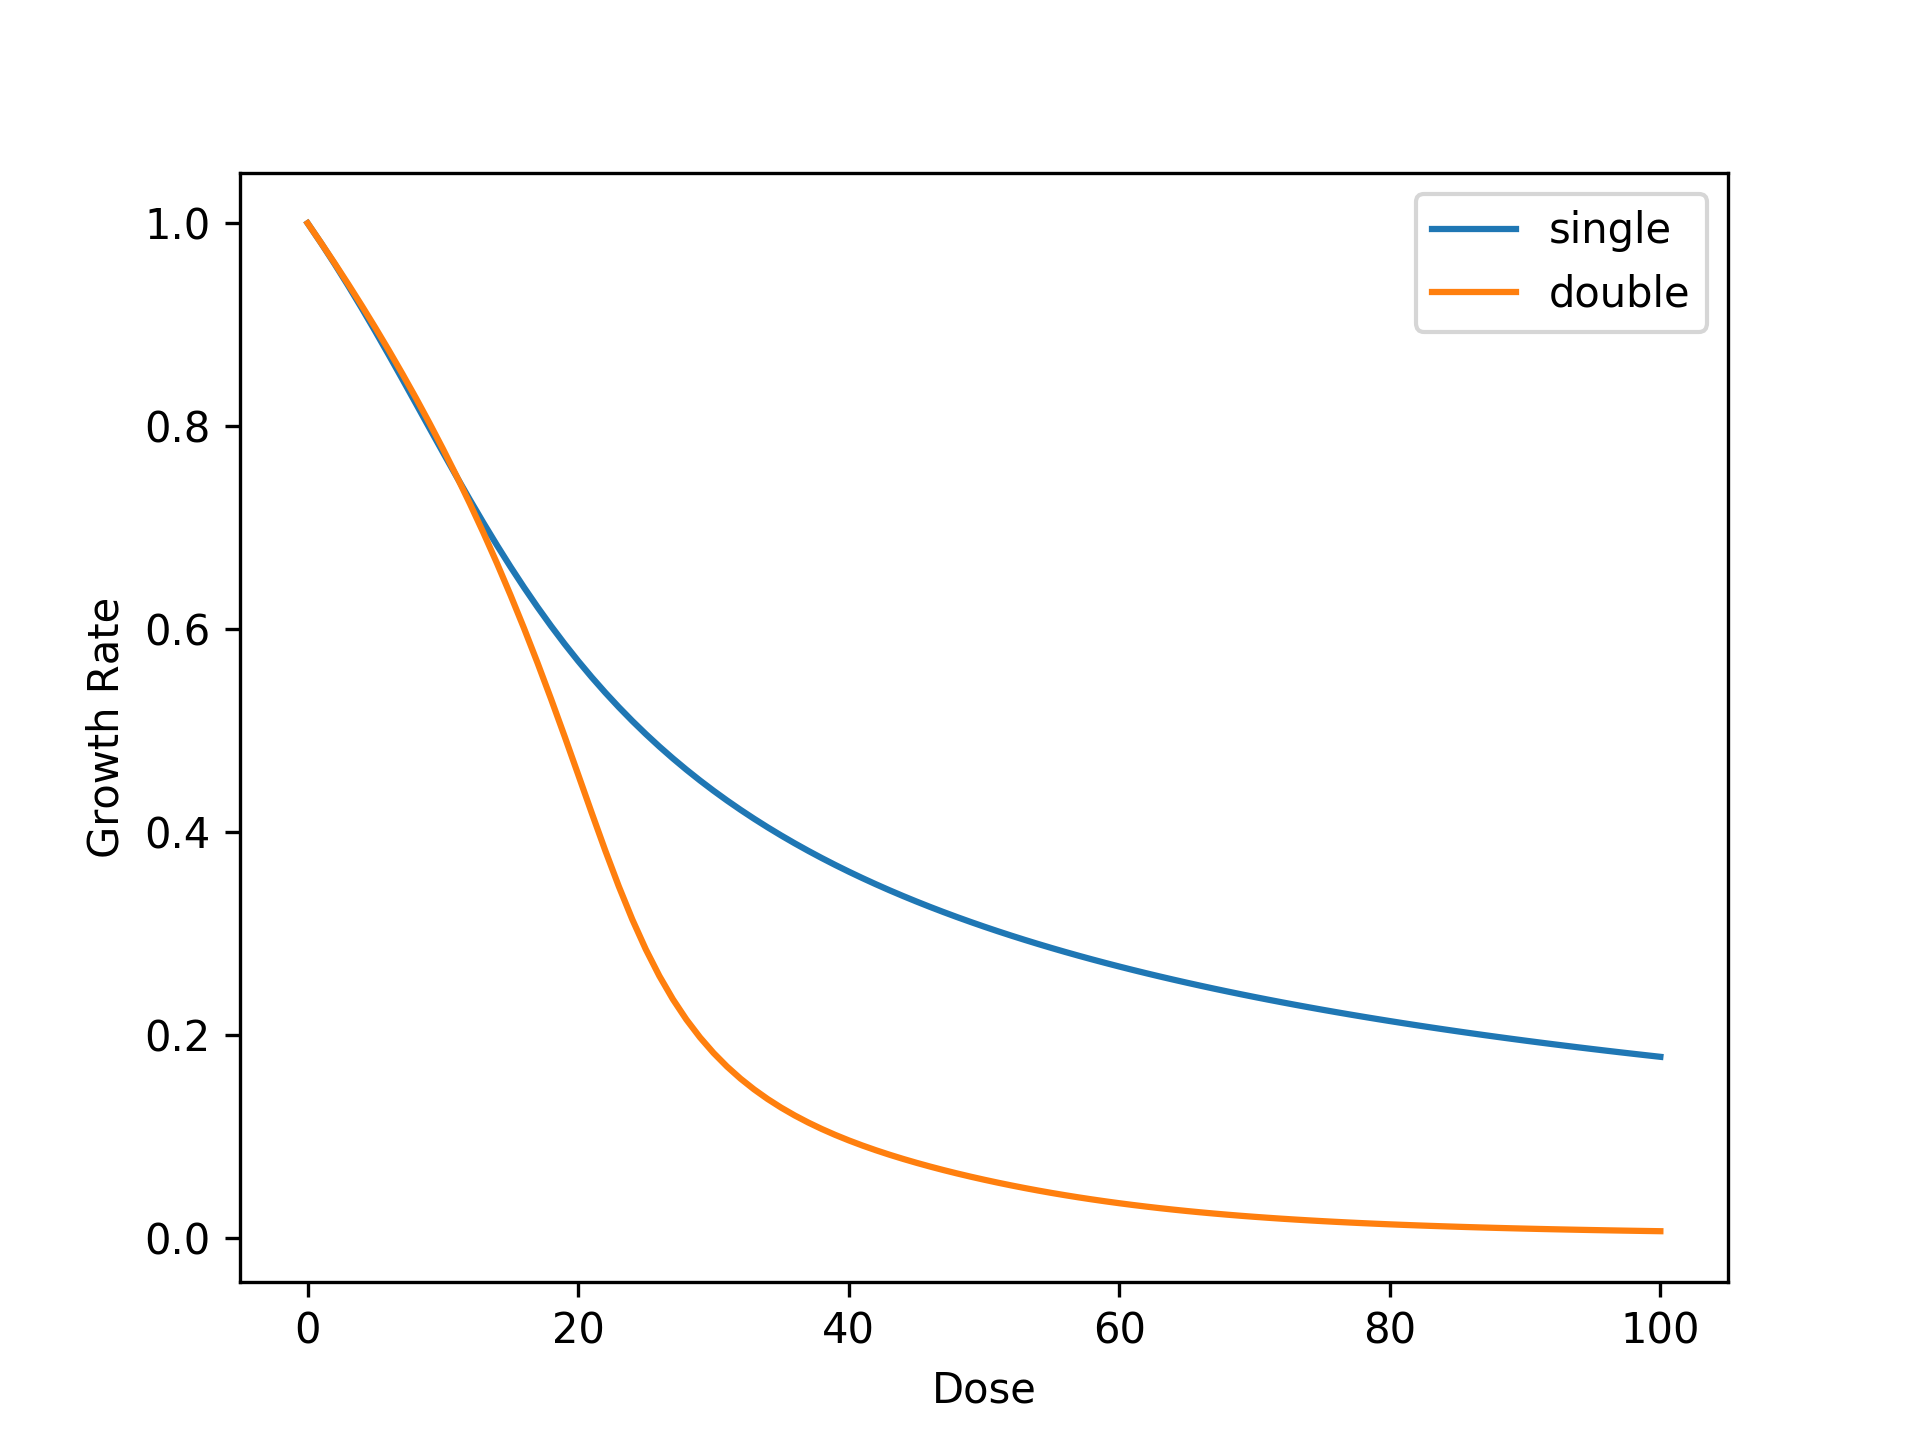
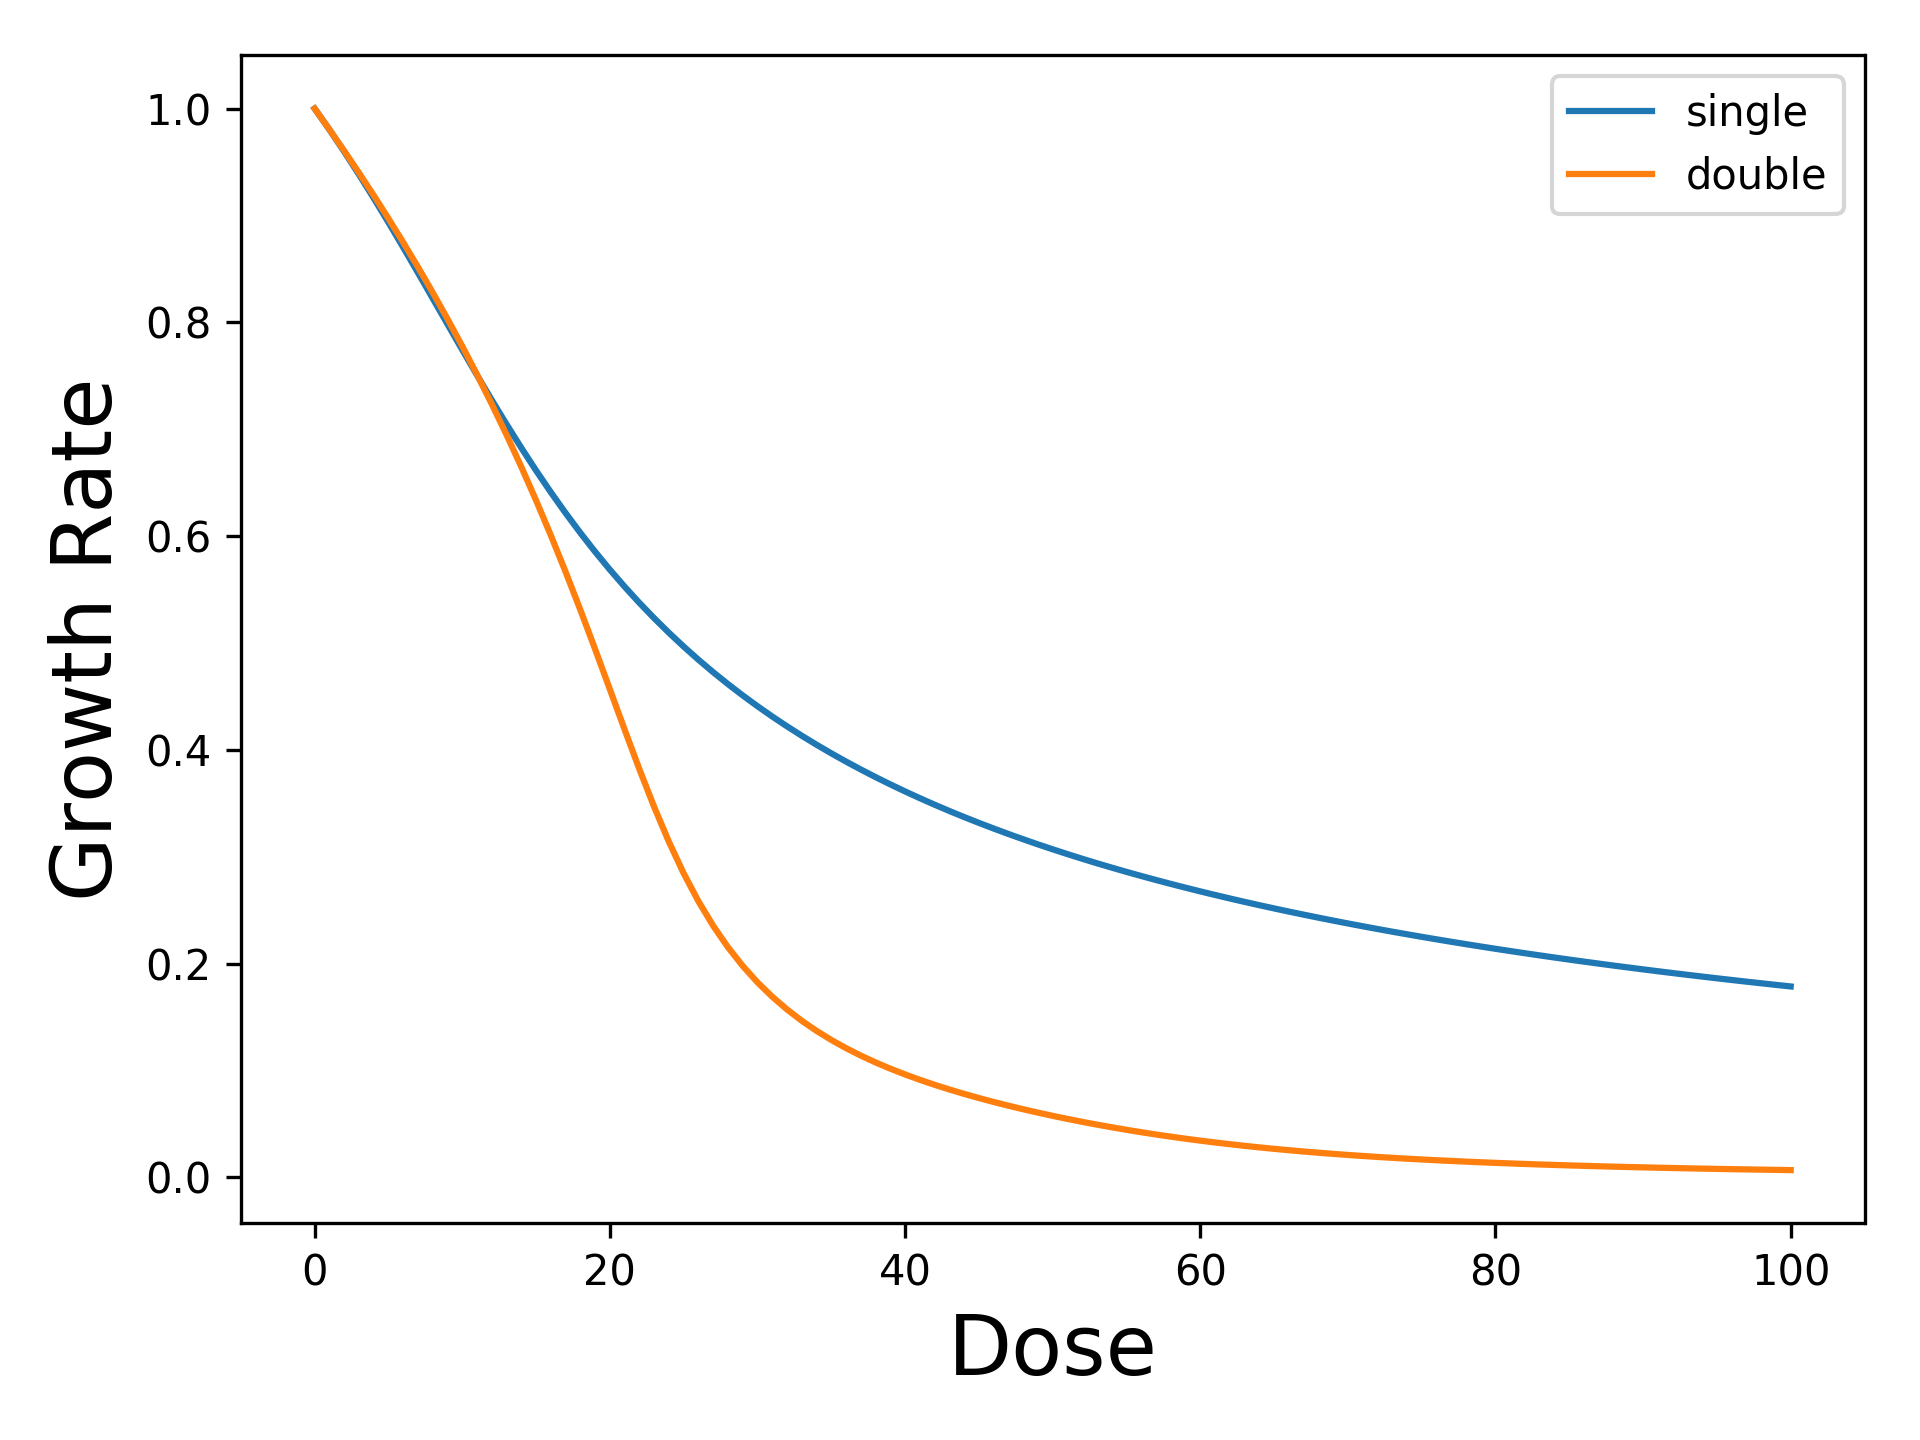
xlabel, ylabelのfontsizeの変更

diff --git a/run_ribo6.py b/run_ribo6.py
@@ -23,8 +23,9 @@ Lambda_0 = normal["single"][0]
 plt.plot(np.linspace(0, 100, 101), list(map(lambda x: x / Lambda_0, list(normal["single"]))), label="single")
 plt.plot(np.linspace(0, 100, 101), list(map(lambda x: x / Lambda_0, list(normal["double"]))), label="double")
 plt.legend()
-plt.xlabel("Dose")
-plt.ylabel("Growth Rate")
+plt.xlabel("Dose", fontsize=20)
+plt.ylabel("Growth Rate", fontsize=20)
+plt.tight_layout()
 plt.savefig("{}/liner_pattern0.png".format(imgdir), dpi=300)
 plt.close()
 
@@ -33,8 +34,9 @@ Lambda_0 = change["single"][0]
 plt.plot(np.linspace(0, 100, 101), list(map(lambda x: x / Lambda_0, list(change["single"]))), label="single")
 plt.plot(np.linspace(0, 100, 101), list(map(lambda x: x / Lambda_0, list(change["double"]))), label="double")
 plt.legend()
-plt.xlabel("Dose")
-plt.ylabel("Growth Rate")
+plt.xlabel("Dose", fontsize=20)
+plt.ylabel("Growth Rate", fontsize=20)
+plt.tight_layout()
 plt.savefig("{}/liner_pattern1.png".format(imgdir), dpi=300)
 
 
